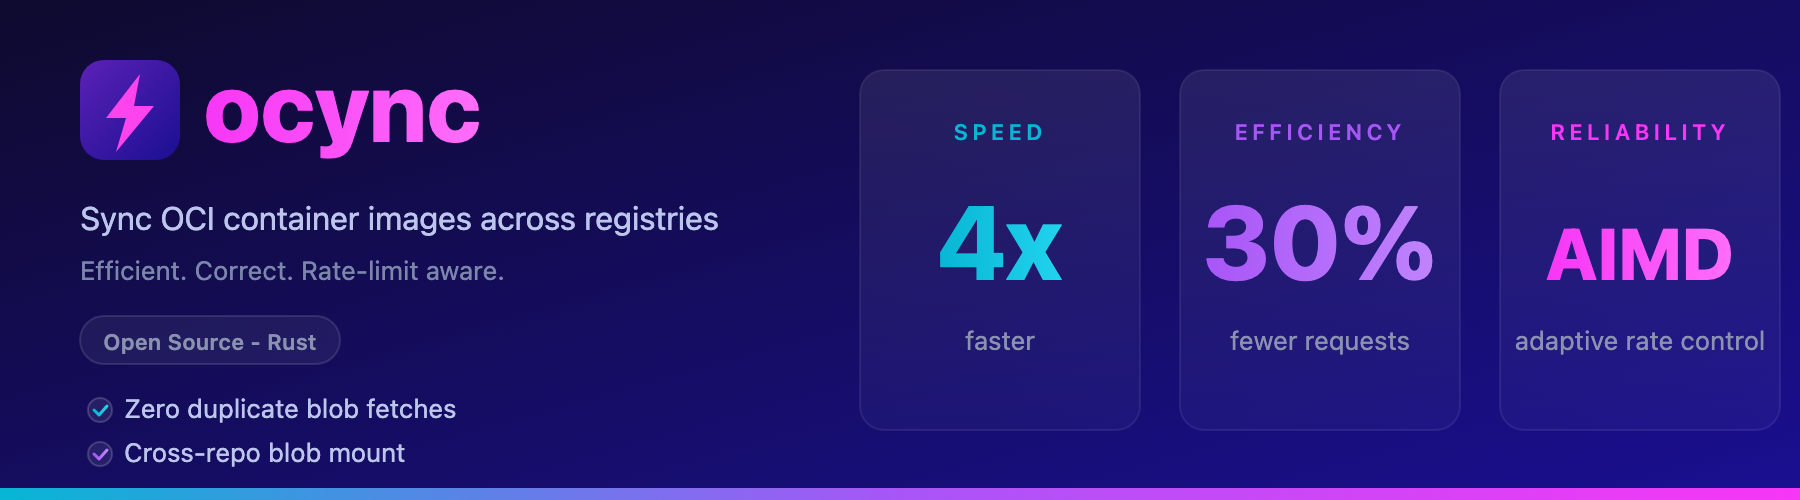
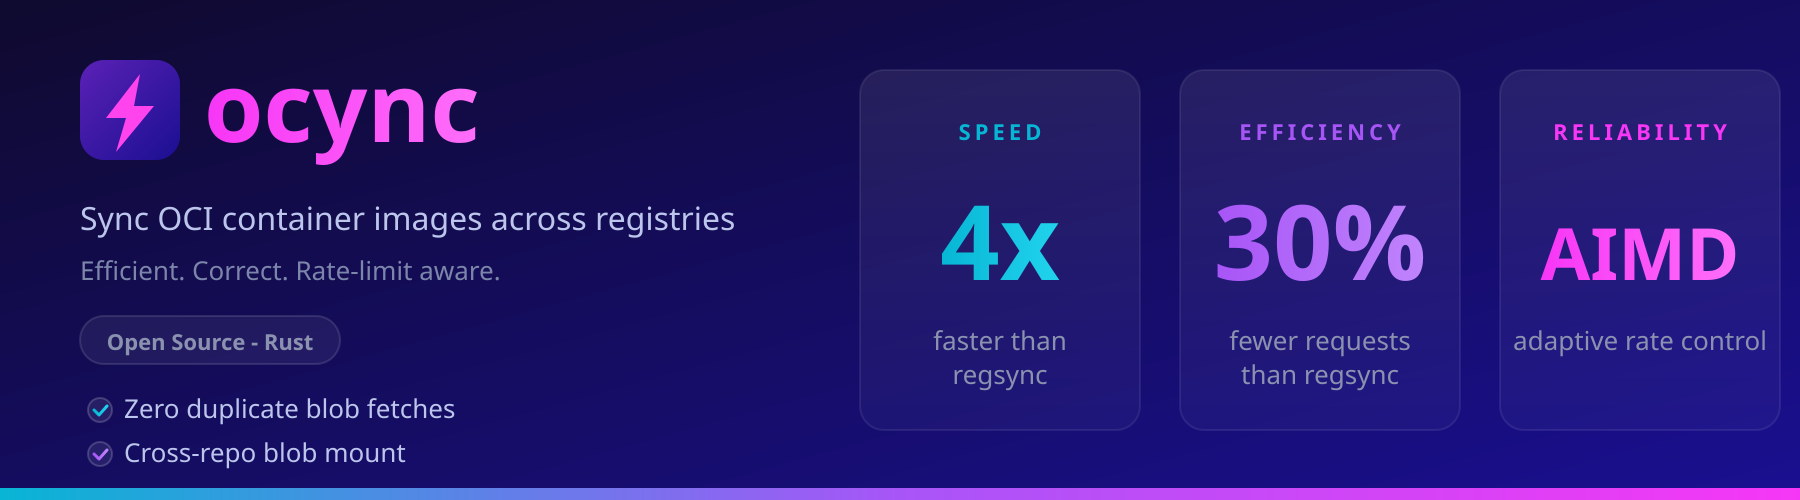
chore: rewrite the published surfaces from the archive and name regsync in every label

diff --git a/xtask/src/bench/publish.rs b/xtask/src/bench/publish.rs
@@ -567,7 +567,8 @@ fn regions(record: &RunRecord) -> Result<Vec<Region>, String> {
             lines,
             format!(
                 "  <!-- run {run} -->\n  <img src=\"docs/public/ecr-banner.png\" alt=\"ocync - \
-                 {speed} faster sync, {percent} fewer API requests, adaptive rate control\" \
+                 {speed} faster than regsync, {percent} fewer API requests than regsync, adaptive \
+                 rate control\" \
                  width=\"900\">\n"
             ),
         ),
@@ -577,8 +578,8 @@ fn regions(record: &RunRecord) -> Result<Vec<Region>, String> {
             "BENCH-STATS",
             lines,
             format!(
-                "  // run {run}\n  {{ value: \"{speed}\", desc: \"faster cold syncs\", color: \
-                 \"stat-pink\" }},\n  {{ value: \"{percent}\", desc: \"fewer API requests\", \
+                "  // run {run}\n  {{ value: \"{speed}\", desc: \"faster cold syncs than regsync\", color: \
+                 \"stat-pink\" }},\n  {{ value: \"{percent}\", desc: \"fewer API requests than regsync\", \
                  color: \"stat-purple\" }},\n"
             ),
         ),
@@ -667,6 +668,57 @@ fn render_banners(root: &Path) -> Result<(), String> {
             docs.display()
         ))
     }
+}
+
+/// The newest published record in the archive text `archive`, `None` when it
+/// holds none.
+#[expect(
+    clippy::disallowed_methods,
+    reason = "parses the archive the bench wrote"
+)]
+fn newest_published_record(archive: &str) -> Result<Option<RunRecord>, String> {
+    let records: Vec<RunRecord> =
+        serde_json::from_str(archive).map_err(|e| format!("parse the archive: {e}"))?;
+    Ok(records
+        .into_iter()
+        .filter(|record| record.publication == Publication::Publish)
+        .max_by(|a, b| a.timestamp.cmp(&b.timestamp)))
+}
+
+/// Rewrites every surface under `root` from the newest published run in the
+/// ECR archive of `archive_dir`, by the plan and write a publish uses, so the
+/// surfaces show that run again after a change to how they are worded. An error
+/// when the archive holds no published run, with nothing written.
+pub(crate) fn rewrite_surfaces(
+    archive_dir: &Path,
+    root: &Path,
+    banners: Banners,
+) -> Result<(), String> {
+    let path = archive_dir.join(format!("{}.json", super::RegistryKind::Ecr.archive_stem()));
+    let record = newest_published_record(&read(&path)?)
+        .map_err(|e| format!("{}: {e}", path.display()))?
+        .ok_or_else(|| {
+            format!(
+                "{} holds no published run, so there is nothing to write; publish one with \
+                 `cargo xtask bench-remote --publish`",
+                path.display()
+            )
+        })?;
+    eprintln!(
+        "bench: writing the surfaces of the published run {}",
+        record.timestamp
+    );
+    plan(root, &record)?.write(root, banners)
+}
+
+/// The `bench-publish-surfaces` command: rewrites every surface of the
+/// repository in the current directory from its newest published run.
+pub(crate) fn run() -> Result<(), Box<dyn std::error::Error>> {
+    Ok(rewrite_surfaces(
+        Path::new(report::ARCHIVE_DIR),
+        Path::new("."),
+        Banners::Render,
+    )?)
 }
 
 /// The regions of the published run `record` that `read` returns different
@@ -1205,7 +1257,9 @@ pub(crate) mod tests {
             assert!(content.contains(FIXTURE_RUN), "{path}");
         }
         assert!(files[README].contains("2.9 times faster than regsync"));
-        assert!(files[README].contains("faster sync, 25% fewer API requests"));
+        assert!(
+            files[README].contains("2.9x faster than regsync, 25% fewer API requests than regsync")
+        );
         assert!(files[HOMEPAGE].contains(r#"{ value: "2.9x","#));
         assert!(files[PERFORMANCE_PAGE].contains("description: How ocync finishes"));
         assert!(
@@ -1411,21 +1465,56 @@ pub(crate) mod tests {
     #[test]
     fn the_surfaces_show_the_newest_published_run() {
         let archive = include_str!("../../../bench/results/ecr.json");
-        let records: Vec<RunRecord> = serde_json::from_str(archive).unwrap();
-        let newest = records
-            .iter()
-            .filter(|record| record.publication == Publication::Publish)
-            .max_by(|a, b| a.timestamp.cmp(&b.timestamp));
         // Until the first published run the surfaces keep the text they have.
-        let Some(record) = newest else { return };
+        let Some(record) = newest_published_record(archive).unwrap() else {
+            return;
+        };
 
-        assert_eq!(verify(record), Ok(()), "{}", record.timestamp);
+        assert_eq!(verify(&record), Ok(()), "{}", record.timestamp);
         assert_eq!(
-            stale(record, &BTreeMap::new()),
+            stale(&record, &BTreeMap::new()),
             Vec::<String>::new(),
             "a surface differs from, or does not cite, the published run {}; \
-             rewrite them from that record",
+             run `cargo xtask bench-publish-surfaces` to rewrite them from it",
             record.timestamp
         );
+    }
+
+    #[test]
+    fn the_surfaces_are_rewritten_from_the_archive_alone_and_only_from_a_published_run() {
+        use crate::bench::report::append_record;
+        let root = repository();
+        let files_of = |root: &Path| -> BTreeMap<String, String> {
+            [PERFORMANCE_PAGE, README, HOMEPAGE, ECR_BANNER, OG_IMAGE]
+                .into_iter()
+                .map(|path| (path.to_owned(), surface_of(root, path)))
+                .collect()
+        };
+
+        // Catches: a rewrite from an archive with only experiments in it
+        // changing a file, or succeeding.
+        let experiments = archive_dir();
+        let mut experiment = fixture(FIXTURE_RUN);
+        experiment.publication = Publication::Archive;
+        append_record(experiments.path(), "ecr", experiment).unwrap();
+        let err = rewrite_surfaces(experiments.path(), root.path(), Banners::Skip).unwrap_err();
+        assert!(err.contains("no published run"), "{err}");
+        let empty = archive_dir();
+        assert!(rewrite_surfaces(empty.path(), root.path(), Banners::Skip).is_err());
+        for (path, content) in files_of(root.path()) {
+            assert_eq!(content, tracked(&path), "{path}");
+        }
+
+        // The newest published run wins, and the surfaces show it.
+        let archive = archive_dir();
+        append_record(archive.path(), "ecr", fixture("2026-11-02-120000")).unwrap();
+        append_record(archive.path(), "ecr", fixture("2026-11-03-120000")).unwrap();
+        rewrite_surfaces(archive.path(), root.path(), Banners::Skip).unwrap();
+        let rewritten = files_of(root.path());
+        assert_eq!(
+            stale(&fixture("2026-11-03-120000"), &rewritten),
+            Vec::<String>::new()
+        );
+        assert!(!stale(&fixture("2026-11-02-120000"), &rewritten).is_empty());
     }
 }

diff --git a/xtask/src/main.rs b/xtask/src/main.rs
@@ -23,6 +23,8 @@ enum Cli {
     BenchRemote(bench::remote::BenchRemoteArgs),
     /// Resolve the bench corpus to manifest digests and write `bench/corpus.lock.json`.
     BenchLock(bench::lock::LockArgs),
+    /// Rewrite every published surface from the newest published run in `bench/results/ecr.json`.
+    BenchPublishSurfaces,
     /// Run skopeo with `--preserve-digests` on `copy`; dregsy's skopeo in the benchmark.
     #[command(hide = true)]
     BenchSkopeo {
@@ -43,6 +45,7 @@ fn main() -> ExitCode {
         Cli::Bench(args) => rt.block_on(bench::run(args)),
         Cli::BenchRemote(args) => bench::remote::run(args),
         Cli::BenchLock(args) => rt.block_on(bench::lock::run(args)),
+        Cli::BenchPublishSurfaces => bench::publish::run(),
         Cli::BenchSkopeo { args } => bench::skopeo_shim::run(args),
     };
 

diff --git a/bench/CLAUDE.md b/bench/CLAUDE.md
@@ -74,7 +74,7 @@ cargo xtask bench-remote --provider aws --force --scenario sync
 
 - `bench` and `bench-remote` refuse the flag before doing anything unless the run is exactly the published shape: all seven tools, 5 rounds, scenario `sync` or `all`, the main corpus, ECR, and none of `--baseline-ref`, `--max-concurrent-transfers`, `--limit`, `--skip-registries`, `--skip-prewarm`, `--no-proxy`, `--measure-proxy-overhead`. One message names every departure. `bench-remote` also fetches origin and refuses a commit that is not an ancestor of `origin/main`, before the push.
 - The record stores the full 40-digit commit hash for a published run (a short one otherwise). After the run the record is checked again (5 of 5 rounds, whole corpus, main corpus, ocync at its default cap, every tool in every round of the cold and warm sync, no baseline, pre-warm done, regsync with values for the headline figures). A run that fails is archived without `published`, with a WARNING that says why, and writes nothing else.
-- Applying a published record (the end of a local run, or `bench-remote`'s fetch) computes every region of every surface, checks that all its markers are present, and only then appends the record and writes the files, then runs `npm run render-banners` in `docs` to rasterize the SVGs with `sharp`. A failed render is an error naming the command. An older published record fetched after a newer one writes no surface.
+- Applying a published record (the end of a local run, or `bench-remote`'s fetch) computes every region of every surface, checks that all its markers are present, and only then appends the record and writes the files, then runs `npm run render-banners` in `docs` to rasterize the SVGs with `sharp`. A failed render is an error naming the command. An older published record fetched after a newer one writes no surface. `cargo xtask bench-publish-surfaces` rewrites every surface from the newest published record in `bench/results/ecr.json` alone, by the same plan and write, and errors with nothing written when there is none; use it after a change to how the surfaces are worded, which makes the consistency test fail.
 - The regions sit between `BENCH*` marker comments: `BENCH` and `BENCH-WARM` and `BENCH-DESCRIPTION` in `docs/src/content/performance.md`, `BENCH-README` and `BENCH-BANNER` in `README.md`, `BENCH-STATS` in `docs/src/pages/index.astro`, and `BENCH-RUN`, `BENCH-SPEED` and `BENCH-REQUESTS` in each banner SVG. Never edit between them by hand: a unit test fails when a surface differs from the newest published record or cites another run. The code is `xtask/src/bench/publish.rs`.
 
 **A run in progress is refused unless `--force`.** A run lock on the instance (`bench/.bench-run.lock`) is held from the start of checkout until the benchmark and every tool it spawned have exited, so a second `bench-remote` cannot delete `target/` under a build. The remote script, the build and the benchmark runner share one process group, recorded in `bench/.bench-run.pgid` and never removed (the lock, not the file, says whether a run is live). `--force` kills that group, then takes the lock. Git runs with the lock's fd closed so a daemonized git cannot hold it from outside the group. Only `flock` exit 75 means held; any other `flock` failure aborts without the refusal. `--fetch` conflicts with every option that shapes a run, since it starts nothing. A run fetches results only after the script prints `benchmark started`; a failure before that (lock held after the wait, `flock` failed, build failed) returns an error and leaves local results alone. The instance writes results only into the run's own directory, which `bench-remote` names locally and fetches exactly (`bench --archive defer`); the run record, and for a `--publish` run the published surfaces, are written locally after the fetch, idempotently (the run's one start time, `--run-timestamp`, names the directory and stamps the record), and the script still restores the two tracked files before checkout to discard edits from runs on older code, and a missing directory means the run wrote no results. `--fetch` copies the newest directory. A script that exits nonzero, or exits 0 with no results, makes `bench-remote` exit nonzero after any fetch.

diff --git a/xtask/README.md b/xtask/README.md
@@ -95,7 +95,7 @@ cargo xtask bench [OPTIONS] <SCENARIO>
 
 ## Published runs
 
-Every public number (the performance page, its description, the README, the homepage and the banners) comes from the newest run recorded with `published: true`, and no other run writes any of them. `--publish` refuses to start unless the run is all seven tools, 5 rounds, scenario `sync` or `all`, the main corpus on ECR, with none of `--baseline-ref`, `--max-concurrent-transfers`, `--limit`, `--skip-registries`, `--skip-prewarm`, `--no-proxy` and `--measure-proxy-overhead`. After the run the record is checked again, and a run that falls short is archived as an experiment with a warning saying why. The design is in `docs/src/content/design/benchmark.md`.
+Every public number (the performance page, its description, the README, the homepage and the banners) comes from the newest run recorded with `published: true`, and no other run writes any of them. `--publish` refuses to start unless the run is all seven tools, 5 rounds, scenario `sync` or `all`, the main corpus on ECR, with none of `--baseline-ref`, `--max-concurrent-transfers`, `--limit`, `--skip-registries`, `--skip-prewarm`, `--no-proxy` and `--measure-proxy-overhead`. After the run the record is checked again, and a run that falls short is archived as an experiment with a warning saying why. `cargo xtask bench-publish-surfaces` rewrites every surface from the newest published record in `bench/results/ecr.json`, with no run, and fails with nothing written when the archive holds none. The design is in `docs/src/content/design/benchmark.md`.
 
 ## Rounds and the baseline build
 

diff --git a/docs/src/content/design/benchmark.md b/docs/src/content/design/benchmark.md
@@ -184,7 +184,7 @@ The archive keeps every run, experiments included. `--publish` sets `published: 
 
 ### The check that keeps them in line
 
-A test reads the newest published record from `bench/results/ecr.json`, computes every generated region from it, and fails when any surface above, other than the PNG copies, differs from the result or cites another run. A hand edit to any of them fails CI. So does a publish that updates one surface and not the others. The PNG copies are the one thing it cannot check, so the publish step renders them and fails when it cannot. Until the first published run, the archive holds no published record and the surfaces keep the text they have. Other tests fit a stand-in run to every tracked file, so a deleted marker fails CI before the first publish does.
+A test reads the newest published record from `bench/results/ecr.json`, computes every generated region from it, and fails when any surface above, other than the PNG copies, differs from the result or cites another run. A hand edit to any of them fails CI, and `cargo xtask bench-publish-surfaces` rewrites them from the newest published record alone, without a run. So does a publish that updates one surface and not the others. The PNG copies are the one thing it cannot check, so the publish step renders them and fails when it cannot. Until the first published run, the archive holds no published record and the surfaces keep the text they have. Other tests fit a stand-in run to every tracked file, so a deleted marker fails CI before the first publish does.
 
 ## What we do not do
 

diff --git a/README.md b/README.md
@@ -4,7 +4,7 @@ Sync OCI container images across registries - efficiently.
 
 <p align="center">
   <!-- BENCH-BANNER:START -->
-  <img src="docs/public/ecr-banner.png" alt="ocync - 4x faster sync, 30% fewer API requests, adaptive rate control" width="900">
+  <img src="docs/public/ecr-banner.png" alt="ocync - 4x faster than regsync, 30% fewer API requests than regsync, adaptive rate control" width="900">
   <!-- BENCH-BANNER:END -->
 </p>
 
